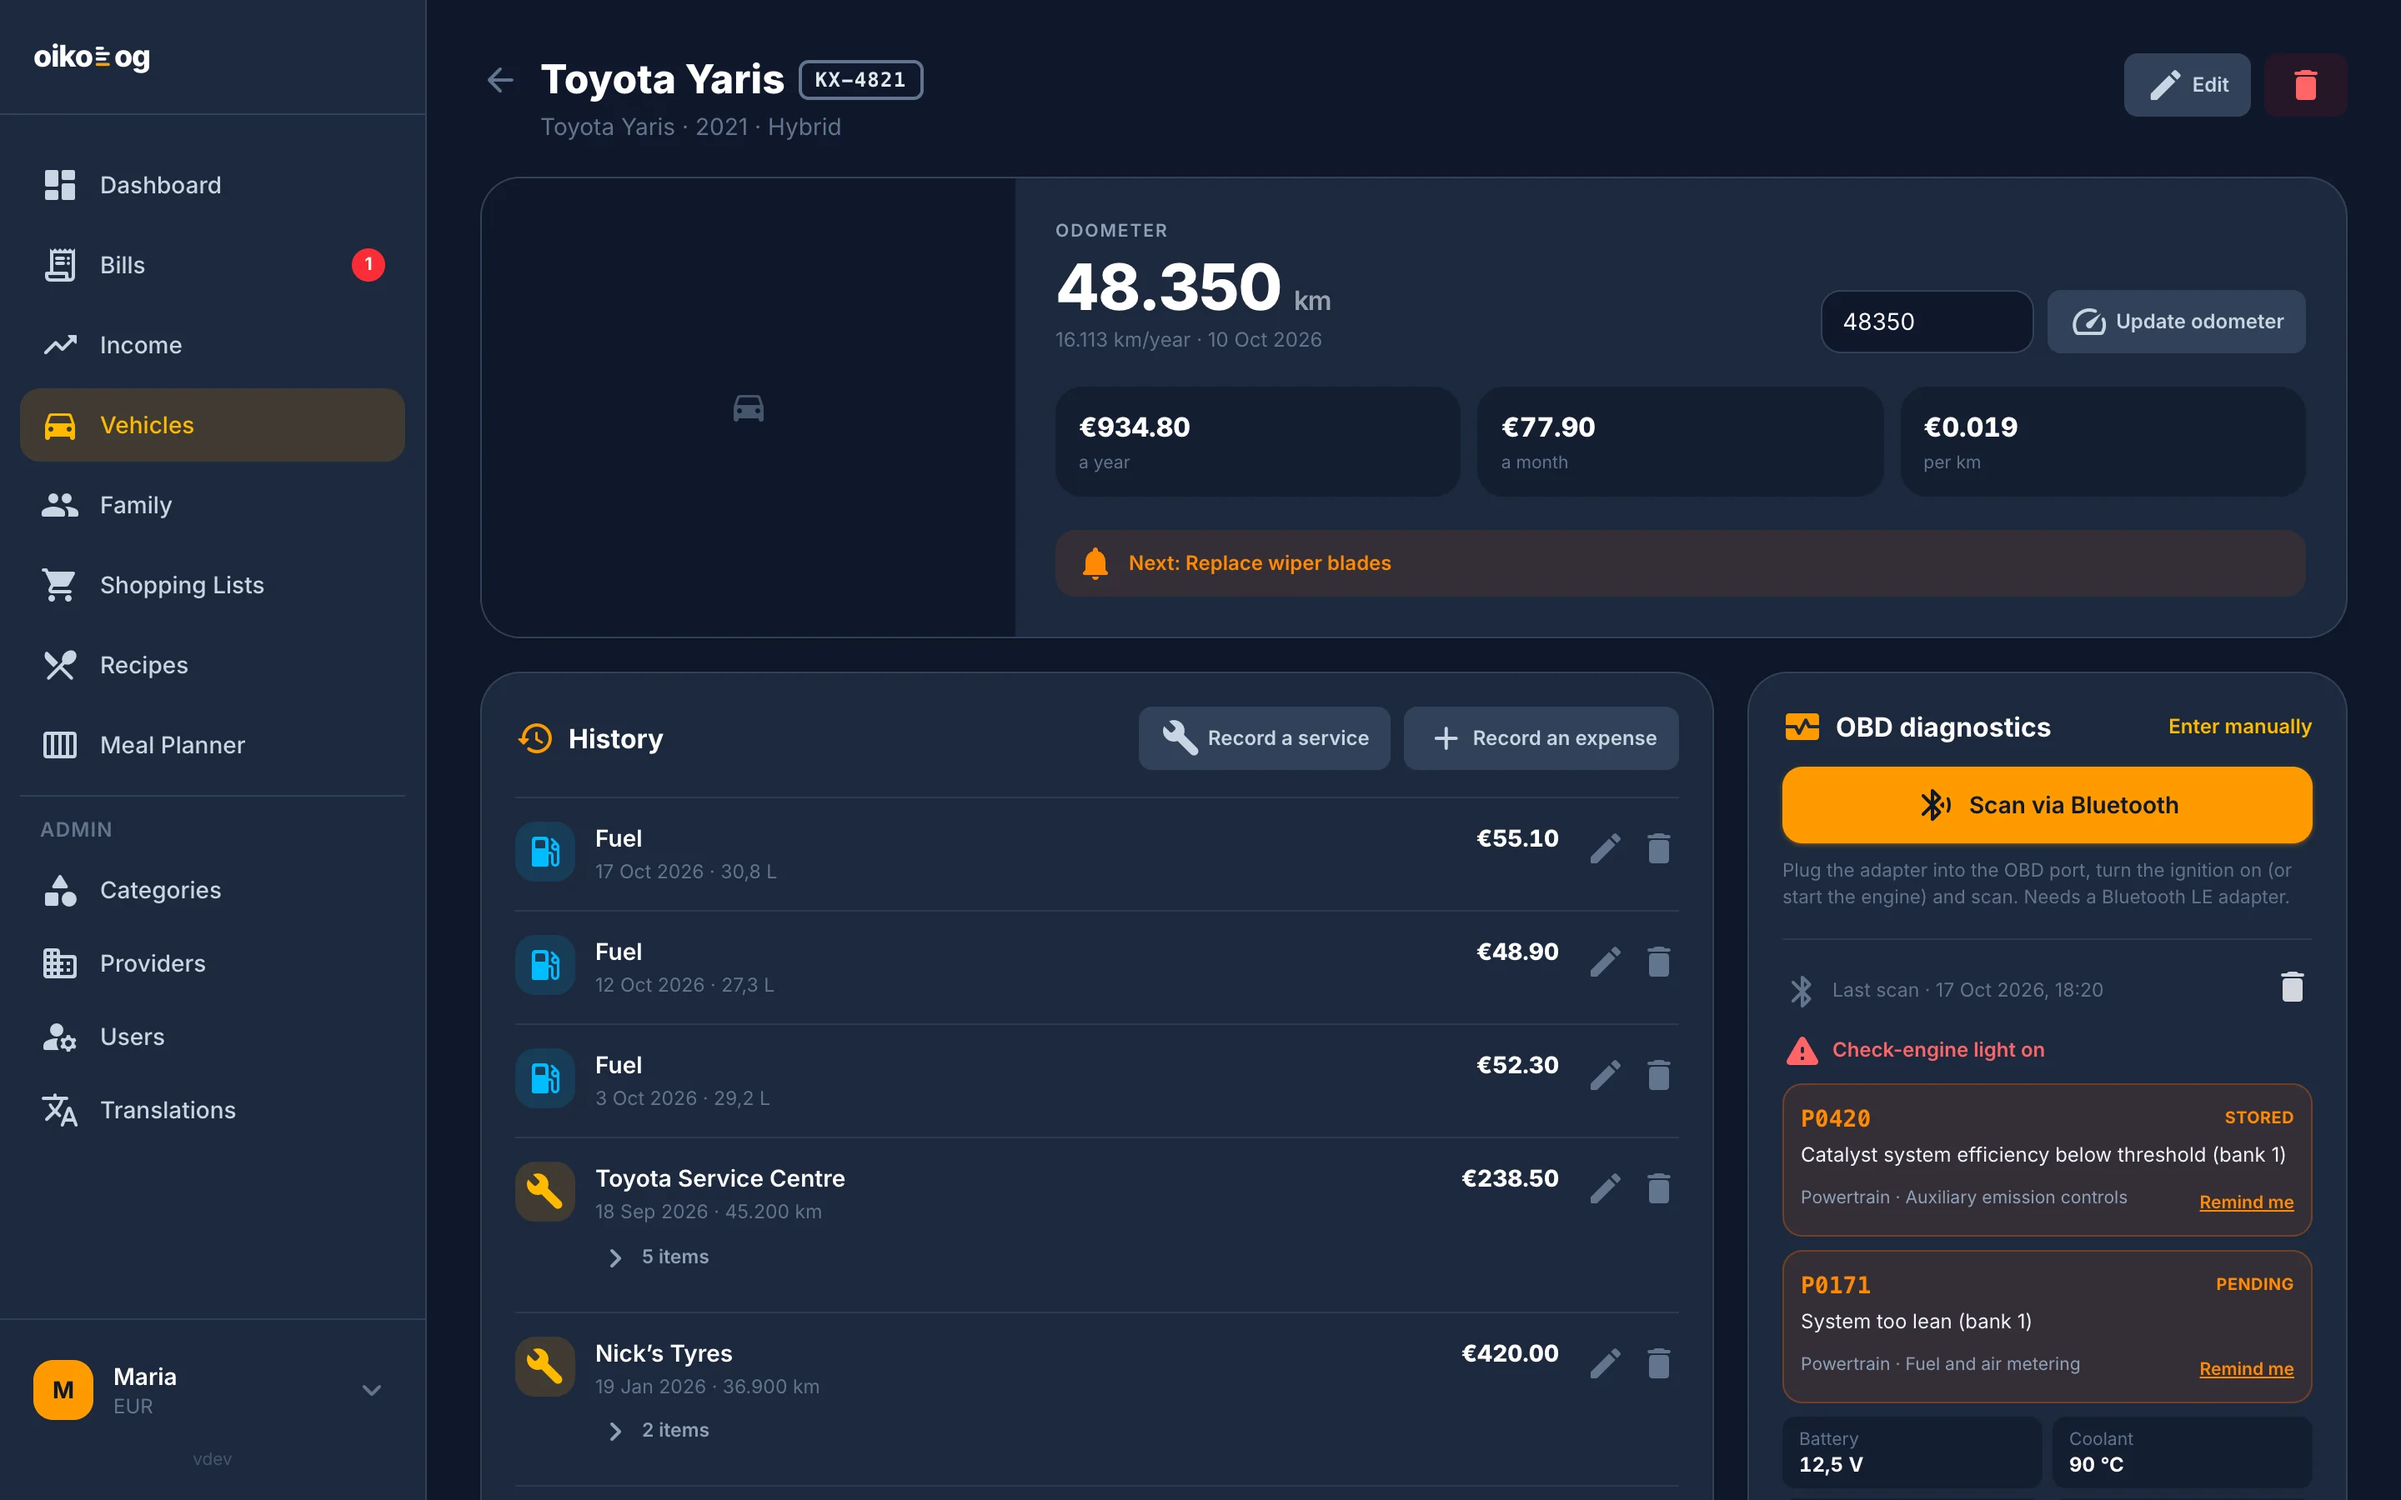
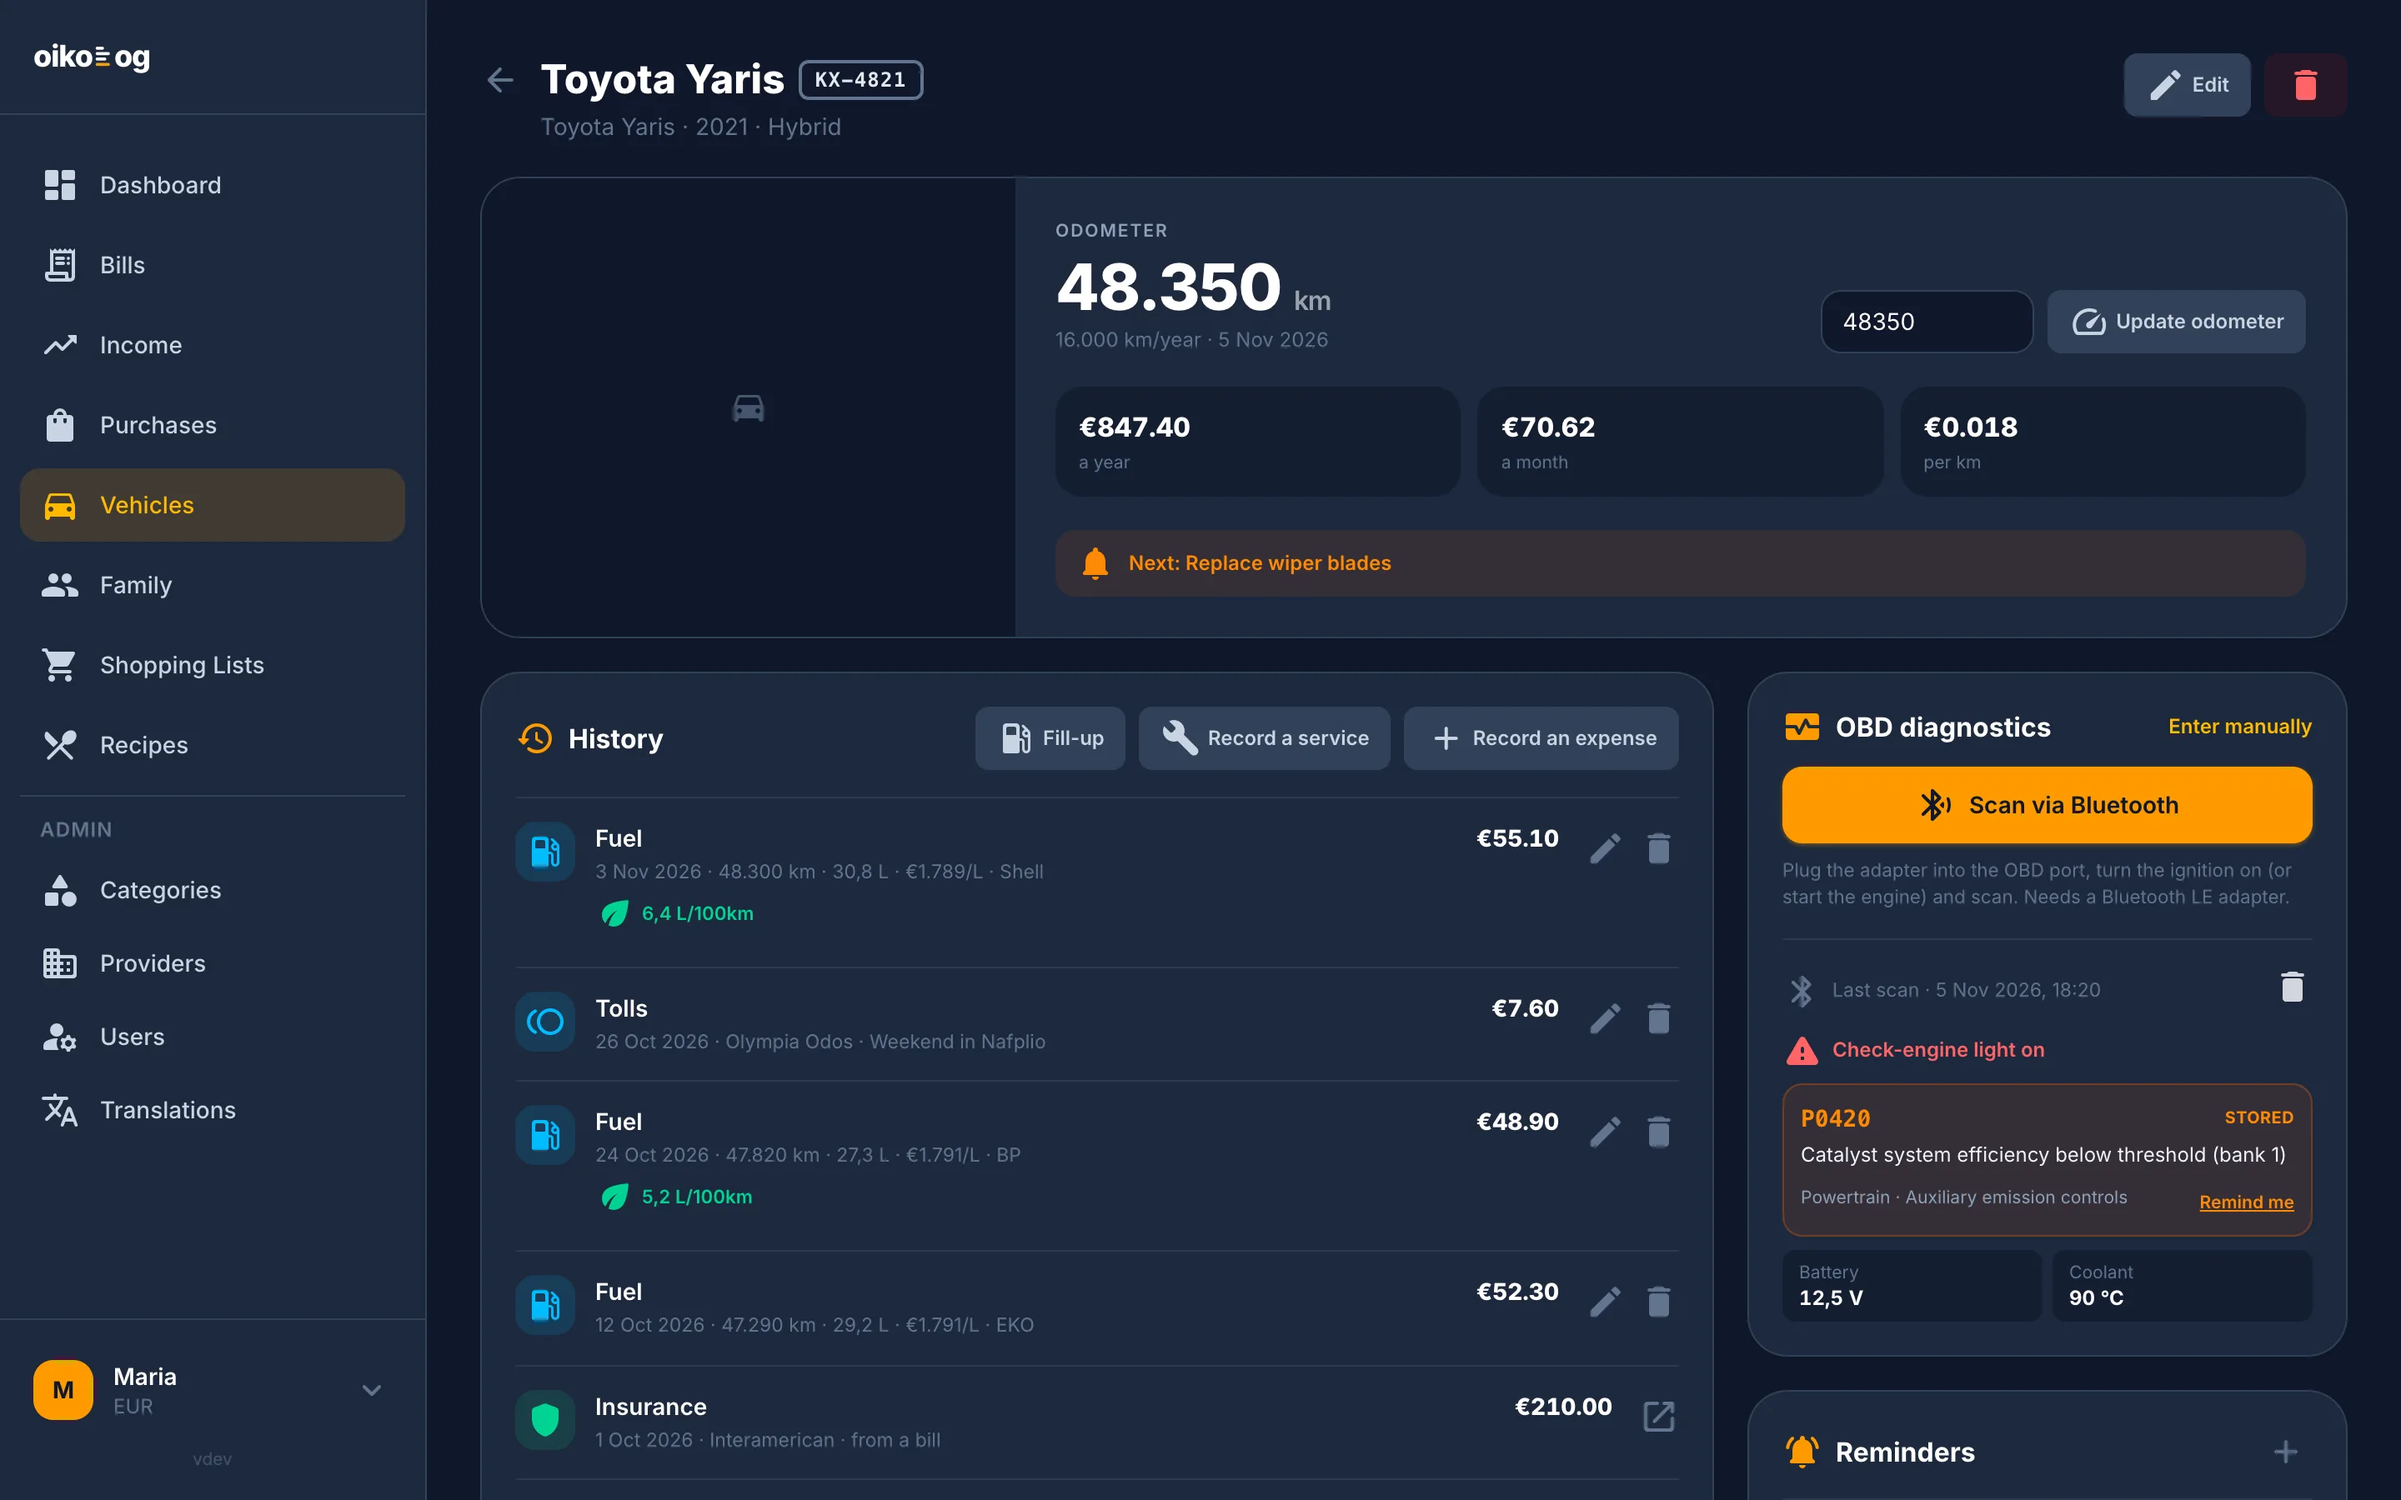
Describe vehicle bills, tolls and the six-month frequency on the website and README, with a fresh vehicle screenshot

diff --git a/site/index.html b/site/index.html
@@ -550,7 +550,7 @@
                     <span class="tab-progress"><i></i></span></button>
                 <button class="tab" type="button" role="tab" data-shot="3">
                     <span class="tab-title"><span class="mi">directions_car</span><span>Vehicles</span></span>
-                    <span class="tab-body"><div><p>Fuel and consumption, service history, reminders, and OBD trouble codes explained.</p></div></span>
+                    <span class="tab-body"><div><p>Fuel and consumption, service history, insurance and road tax that remind you, and OBD trouble codes explained.</p></div></span>
                     <span class="tab-progress"><i></i></span></button>
                 <button class="tab" type="button" role="tab" data-shot="4">
                     <span class="tab-title"><span class="mi">restaurant_menu</span><span>Recipes</span></span>
@@ -583,7 +583,7 @@
         <div class="grid">
             <div class="card reveal" style="--d:0s"><div class="ic"><span class="mi">receipt_long</span></div>
                 <h3>Bills &amp; payments</h3>
-                <p>Monthly, every two months, quarterly or one-off, with the next due date worked out for you. Partial payments, and loans where you see how much is left to repay.</p></div>
+                <p>Monthly, every two months, quarterly, every six months or one-off, with the next due date worked out for you. Partial payments, and loans where you see how much is left to repay.</p></div>
             <div class="card reveal" style="--d:.06s"><div class="ic"><span class="mi">savings</span></div>
                 <h3>Purchases &amp; envelopes</h3>
                 <p>Shopping, clothes, a present: each purchase with its category, from the account it was paid from. Spending envelopes per pay cycle, and whatever is left goes to savings.</p></div>
@@ -604,7 +604,7 @@
                 <p>Import recipes from any link and send the ingredients straight to a shopping list. The same recipes show up in SparkyFitness.</p></div>
             <div class="card reveal" style="--d:.18s"><div class="ic"><span class="mi">directions_car</span></div>
                 <h3>Vehicles</h3>
-                <p>Mileage, fuel with consumption per 100 km, service reminders, a work history, cost per kilometre and OBD diagnostics over Bluetooth.</p></div>
+                <p>Mileage, fuel with consumption per 100 km, service reminders, insurance, road tax and KTEO as bills, tolls, cost per kilometre and OBD diagnostics over Bluetooth.</p></div>
         </div>
     </div>
 </section>
@@ -665,9 +665,9 @@
             <div class="sc-copy reveal">
                 <div class="kicker">Made for Greece</div>
                 <h2>Every well-known provider, ready on day one.</h2>
-                <p>More than 50 Greek and international providers are already in, across 16 categories. And you can change all of it.</p>
+                <p>More than 60 Greek and international providers are already in, across 20 categories. And you can change all of it.</p>
                 <ul class="checks">
-                    <li><span class="mi">bolt</span><span>Electricity, water, gas, telecoms, banks, insurance, supermarkets, transport, streaming</span></li>
+                    <li><span class="mi">bolt</span><span>Electricity, water, gas, telecoms, banks, insurance, motorway tolls, supermarkets, transport, streaming</span></li>
                     <li><span class="mi">category</span><span>Your own categories, with an icon and a colour</span></li>
                     <li><span class="mi">add_business</span><span>Add or edit providers, and one provider can belong to several categories</span></li>
                     <li><span class="mi">translate</span><span>Greek and English, with translations you can edit in the app</span></li>
@@ -684,7 +684,7 @@
             <span>PPC</span><span>Heron</span><span>NRG</span><span>Protergia</span><span>Elpedison</span><span>Zenith</span><span>EYDAP</span><span>EYATH</span><span>EDA Attikis</span><span>EDA Thess</span><span>Cosmote</span><span>Vodafone</span><span>Nova</span><span>Cyta</span><span>Netflix</span><span>Disney+</span><span>Spotify</span><span>YouTube Premium</span><span>Amazon Prime</span><span>Max</span><span>Apple TV+</span><span>PlayStation Plus</span><span>Xbox Game Pass</span><span>Steam</span>
         </div></div>
         <div class="prov-row rev"><div class="prov-track">
-            <span>Alpha Bank</span><span>Eurobank</span><span>Piraeus Bank</span><span>National Bank of Greece</span><span>Attica Bank</span><span>Revolut</span><span>American Express</span><span>Interamerican</span><span>Ethniki Insurance</span><span>Allianz</span><span>AXA</span><span>Eurolife FFH</span><span>Generali</span><span>AB Vassilopoulos</span><span>Sklavenitis</span><span>Lidl</span><span>My Market</span><span>Masoutis</span><span>OASA</span><span>Hellenic Train</span><span>Aegean</span><span>Ryanair</span><span>Holmes Place</span><span>Coursera</span>
+            <span>Alpha Bank</span><span>Eurobank</span><span>Piraeus Bank</span><span>National Bank of Greece</span><span>Attica Bank</span><span>Revolut</span><span>American Express</span><span>Interamerican</span><span>Ethniki Insurance</span><span>Allianz</span><span>AXA</span><span>Eurolife FFH</span><span>Generali</span><span>AADE</span><span>AB Vassilopoulos</span><span>Sklavenitis</span><span>Lidl</span><span>My Market</span><span>Masoutis</span><span>OASA</span><span>Hellenic Train</span><span>Aegean</span><span>Ryanair</span><span>Attiki Odos</span><span>Olympia Odos</span><span>Egnatia Odos</span><span>Rio-Antirrio Bridge</span><span>Holmes Place</span><span>Coursera</span>
         </div></div>
     </div>
 </section>

diff --git a/README.md b/README.md
@@ -31,7 +31,7 @@ family. Around that sits the day-to-day: shopping lists, and recipes whose ingre
 
 **Money**
 
-- Recurring and one-off bills, weekly through yearly (every two months included), with automatic next-due-date calculation
+- Recurring and one-off bills, weekly through yearly (every two and every six months included), with automatic next-due-date calculation
 - Full and **partial** payments, with per-payment history and one-click undo
 - Bills with a variable amount ("cost varies"): enter the real figure at payment time
 - **Debt tracking** for loans and credit cards: a bill carries the total still owed, each payment draws it
@@ -59,6 +59,9 @@ family. Around that sits the day-to-day: shopping lists, and recipes whose ingre
 - Recipe nutrition worked out from the ingredients that match a catalogue product by weight
 - **SparkyFitness integration**: your recipes show up in SparkyFitness for food logging
 - Vehicles with service reminders (by date or mileage), running costs and maintenance history
+- **Vehicle costs** by kind (service, insurance, road tax, KTEO inspection, tolls), each with its provider: the Greek
+  motorway operators and AADE come preloaded. Insurance, road tax and KTEO can be recorded as recurring, which makes
+  them bills that remind you when they are next due, and any bill tagged with a car's plate counts towards its costs
 - **Fuel log** per vehicle: fill-ups with litres and price, consumption in L/100km from full tank to full tank,
   and fuel cost per km
 
